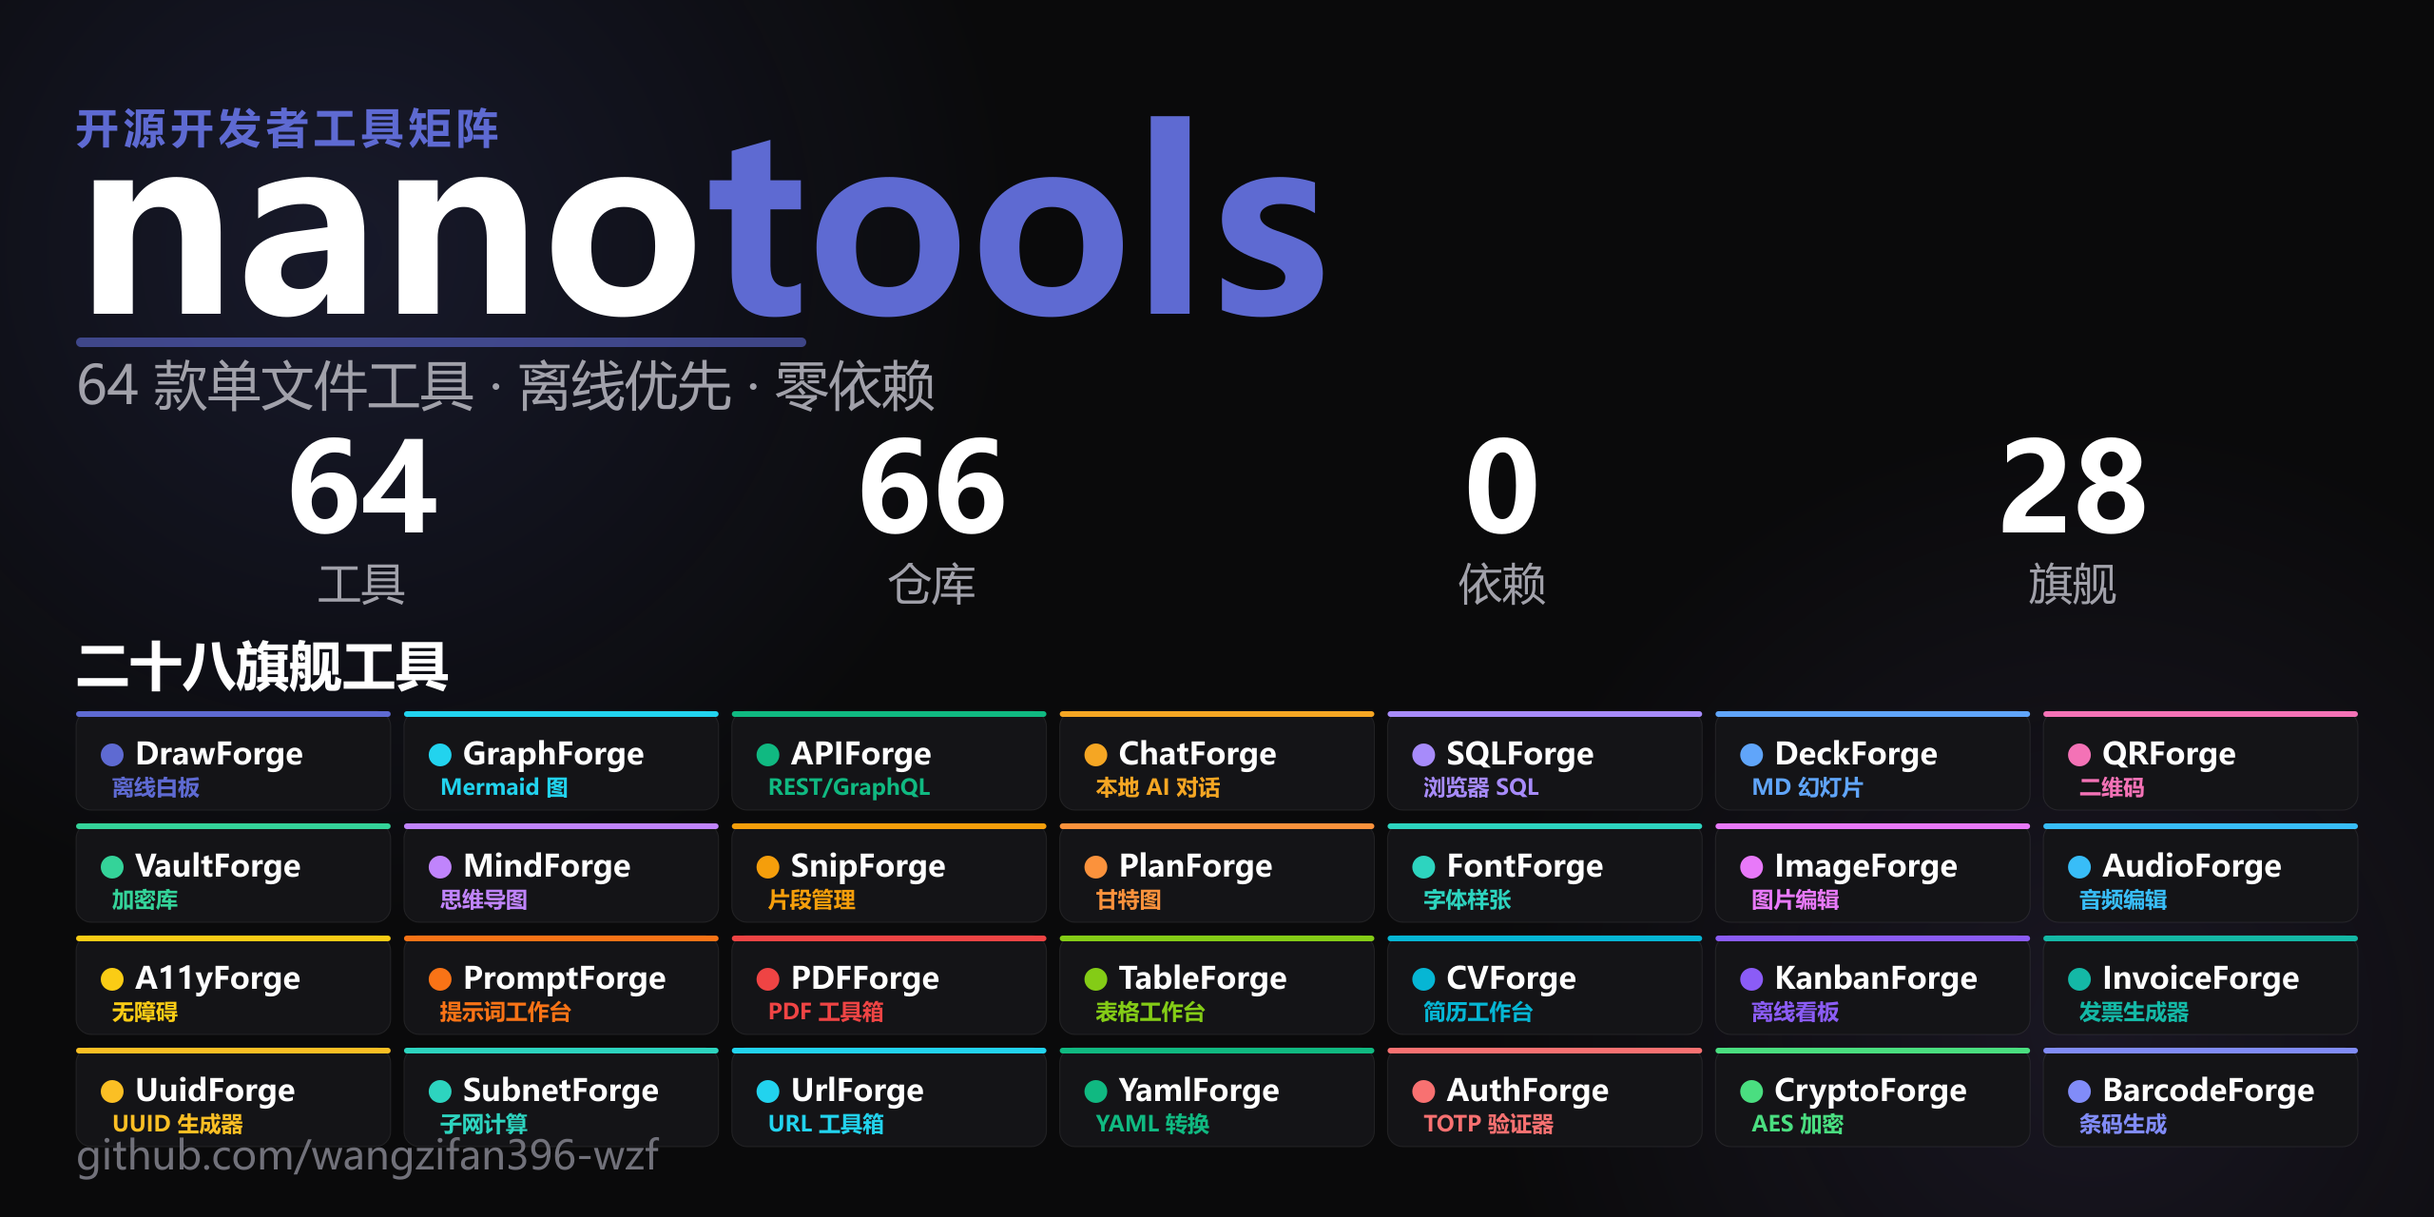
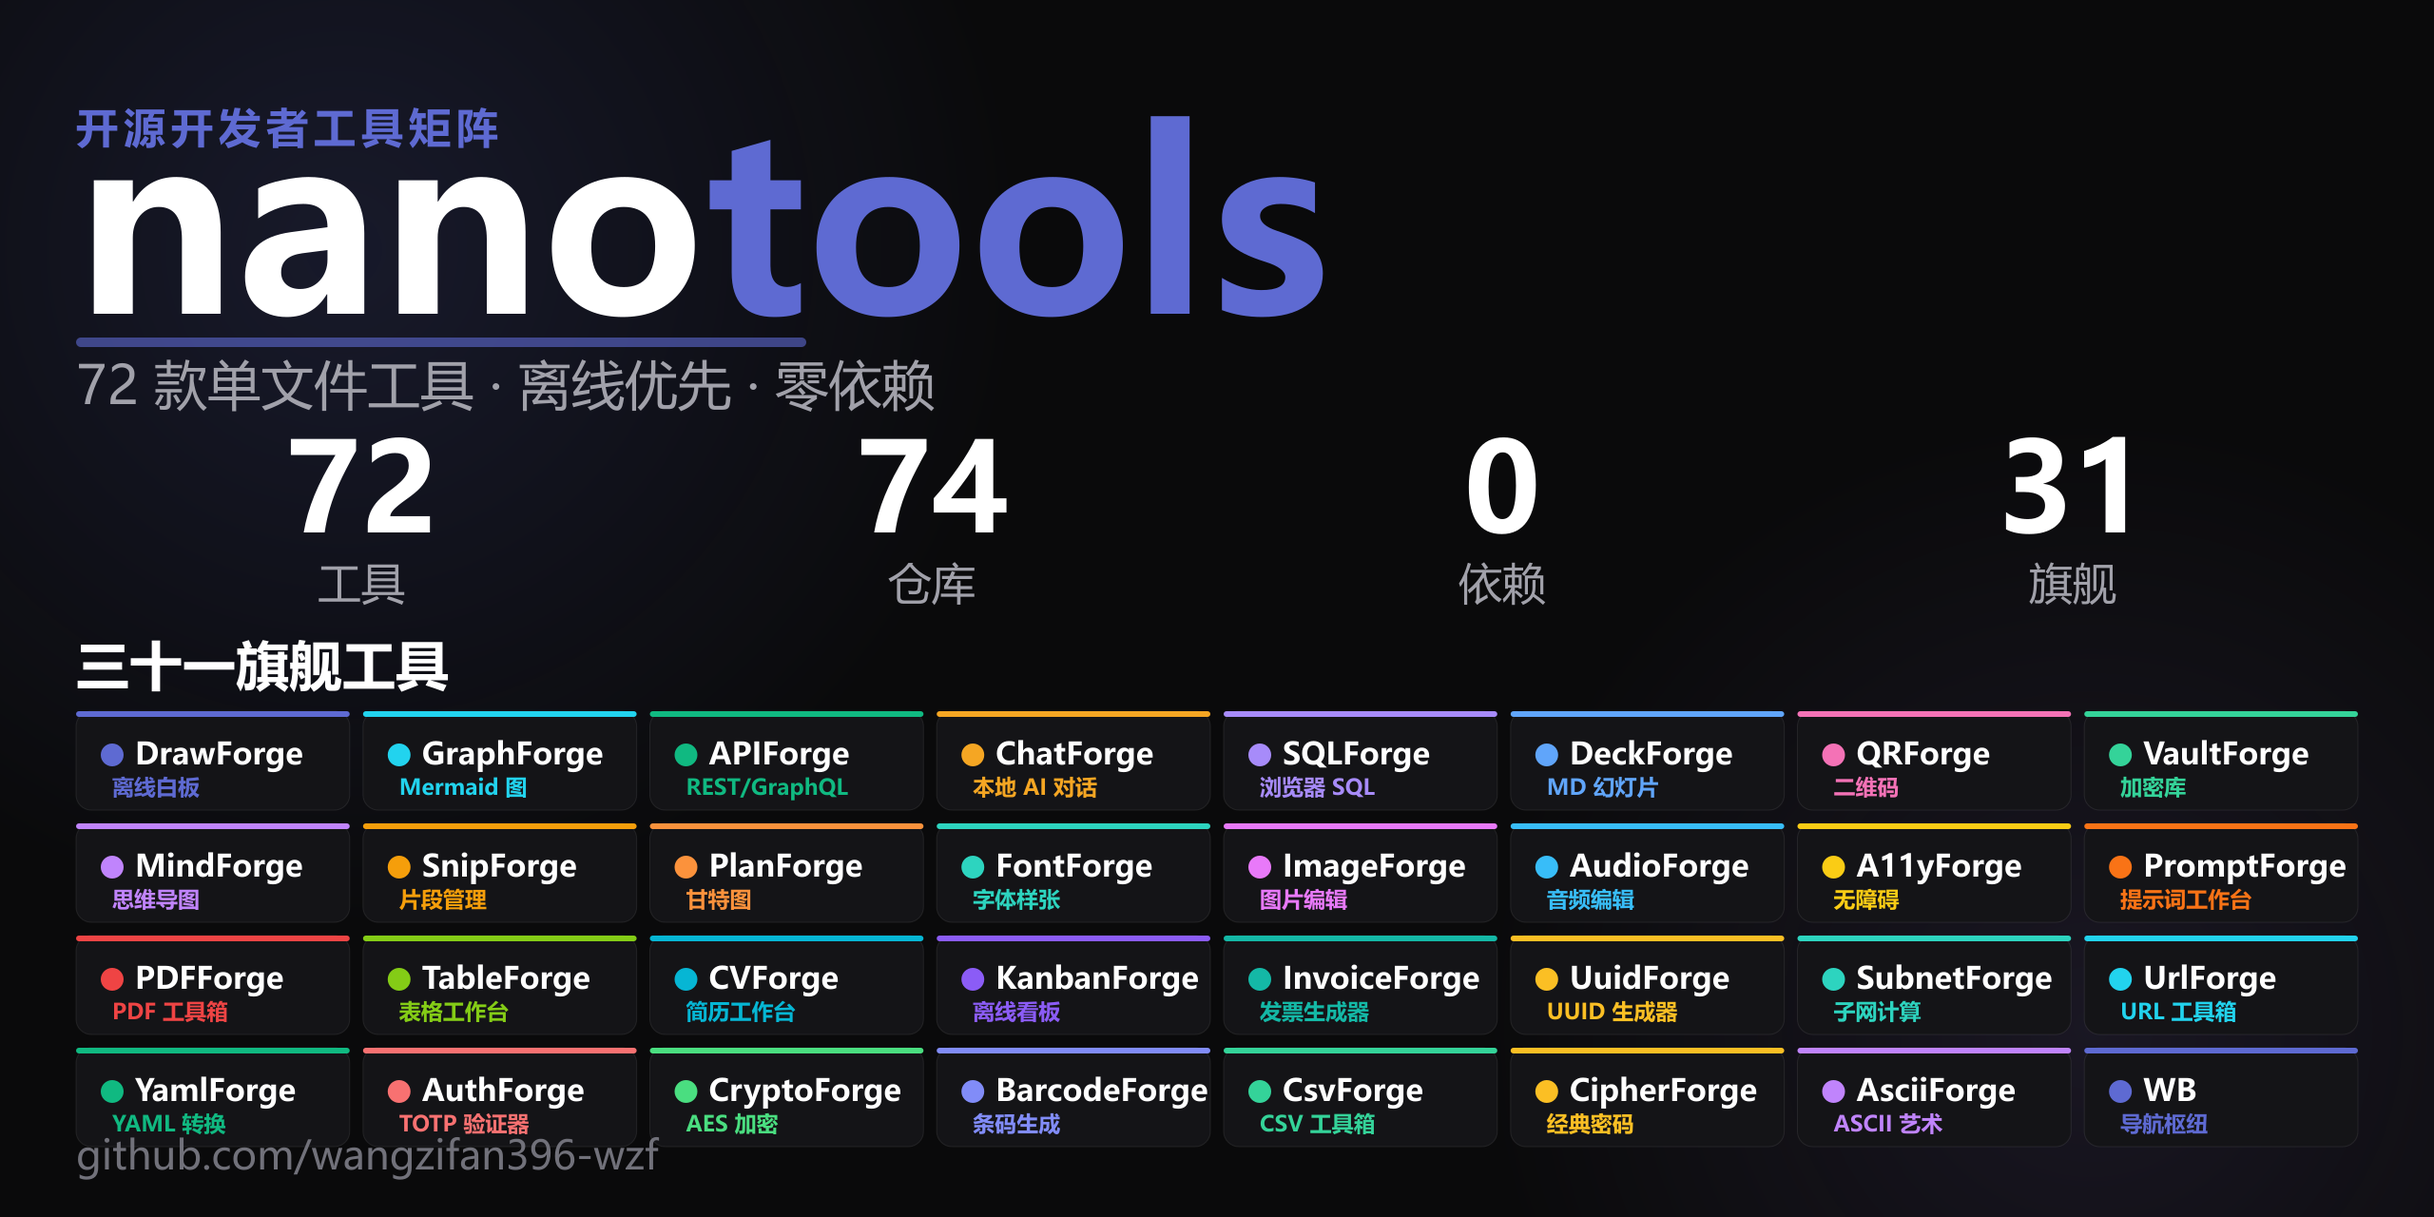
feat: add 8 tools (CsvForge/CipherForge/AsciiForge/AvatarForge/FaviconForge/XmlForge/HtmlForge/TimerForge), bump counts to 72 tools/74 repos/31 flagships, refresh og+social-preview v14

diff --git a/index.html b/index.html
@@ -5,9 +5,9 @@
 <meta charset="UTF-8">
 <meta name="viewport" content="width=device-width, initial-scale=1.0">
 <title data-i18n="meta_title">nano-tools · 单文件零依赖工具集</title>
-<meta name="description" data-i18n="meta_desc" content="一个标签页，收纳你全部的开发者工具。64 个单文件、零依赖、本地优先的开源工具，下载即用，数据永不离机。">
+<meta name="description" data-i18n="meta_desc" content="一个标签页，收纳你全部的开发者工具。72 个单文件、零依赖、本地优先的开源工具，下载即用，数据永不离机。">
 <meta property="og:title" data-i18n="og_title" content="nano-tools · 单文件零依赖工具集">
-<meta property="og:description" data-i18n="og_desc" content="64 个单文件、零依赖、本地优先的开发者工具，下载即用，数据永不离机。">
+<meta property="og:description" data-i18n="og_desc" content="72 个单文件、零依赖、本地优先的开发者工具，下载即用，数据永不离机。">
 <meta property="og:image" content="social-preview.png">
 <meta property="og:image:width" content="1280">
 <meta property="og:image:height" content="640">
@@ -278,7 +278,7 @@
     <div class="hero-left">
       <span class="eyebrow"><span class="dot"></span><span data-i18n="hero_eyebrow">开源 · 零依赖 · 单文件</span></span>
       <h1 class="title" data-i18n-html="hero_title">一个标签页，<br>收纳你<span class="hl">全部的开发者工具</span></h1>
-      <p class="subtitle" data-i18n="hero_subtitle">64 个单文件、离线优先的开源工具，覆盖编码、转换、可视化与 AI。下载即用，数据永远留在你的浏览器里。</p>
+      <p class="subtitle" data-i18n="hero_subtitle">72 个单文件、离线优先的开源工具，覆盖编码、转换、可视化与 AI。下载即用，数据永远留在你的浏览器里。</p>
       <div class="hero-cta">
         <a class="btn primary" href="#tools" data-i18n="hero_browse">浏览工具 ↓</a>
         <a class="btn" href="https://github.com/wangzifan396-wzf" target="_blank" rel="noopener" data-i18n="hero_github">在 GitHub 查看</a>
@@ -327,7 +327,7 @@
   <div class="wrap">
     <div class="sec-head reveal">
       <span class="label" data-i18n="tools_label">工具矩阵</span>
-      <h2 class="sec-title" data-i18n="tools_title">64 款精心打磨的开发者工具</h2>
+      <h2 class="sec-title" data-i18n="tools_title">72 款精心打磨的开发者工具</h2>
       <p class="sec-desc" data-i18n="tools_desc">搜索或按分类筛选，点击「在线试用」立即体验，或前往源码仓库查看实现。</p>
     </div>
     <div class="controls reveal">
@@ -385,7 +385,7 @@
 <div class="wrap">
   <div class="cta-band reveal" style="border-color:var(--acc);">
     <span class="pill ok" style="align-self:center;background:rgba(94,106,210,.16);color:#aab2f0;" data-i18n="wb_badge">★ 聚合工作台</span>
-    <h2 data-i18n="wb_title">一个标签页，收纳全部 64 款工具</h2>
+    <h2 data-i18n="wb_title">一个标签页，收纳全部 72 款工具</h2>
     <p data-i18n="wb_desc">nano-workbench：点选即在内嵌窗口运行、标签间即时切换，无需反复打开新页面。数据永不离机。</p>
     <div class="hero-cta">
       <a class="btn primary" href="https://wangzifan396-wzf.github.io/nano-workbench/" target="_blank" rel="noopener" data-i18n="wb_open">打开工作台 ↗</a>
@@ -397,7 +397,7 @@
 <div class="wrap">
   <div class="cta-band reveal">
     <h2 data-i18n="cta_title">把你下一个小工具，交给 nano-tools</h2>
-    <p data-i18n="cta_desc">66 个仓库、64 款工具，全部开源、零依赖、本地优先。</p>
+    <p data-i18n="cta_desc">74 个仓库、72 款工具，全部开源、零依赖、本地优先。</p>
     <div class="hero-cta">
       <a class="btn primary" href="#tools" data-i18n="cta_browse">开始浏览</a>
       <a class="btn" href="https://github.com/wangzifan396-wzf" target="_blank" rel="noopener">★ Star on GitHub</a>
@@ -425,16 +425,16 @@
   // 双语字典（中 / 英）。data-i18n 文本用 textContent；data-i18n-html 保留 <br>/<span> 结构；meta 改 content 属性。
   var I18N = {
     "meta_title":{zh:"nano-tools · 单文件零依赖工具集",en:"nano-tools · single-file, zero-dep tools"},
-    "meta_desc":{zh:"一个标签页，收纳你全部的开发者工具。64 个单文件、零依赖、本地优先的开源工具，下载即用，数据永不离机。",en:"One tab for all your dev tools. 64 single-file, zero-dep, local-first open-source tools. Download and use; data never leaves the browser."},
+    "meta_desc":{zh:"一个标签页，收纳你全部的开发者工具。72 个单文件、零依赖、本地优先的开源工具，下载即用，数据永不离机。",en:"One tab for all your dev tools. 72 single-file, zero-dep, local-first open-source tools. Download and use; data never leaves the browser."},
     "og_title":{zh:"nano-tools · 单文件零依赖工具集",en:"nano-tools · single-file, zero-dep tools"},
-    "og_desc":{zh:"64 个单文件、零依赖、本地优先的开发者工具，下载即用，数据永不离机。",en:"64 single-file, zero-dep, local-first dev tools. Download and use; data never leaves the browser."},
+    "og_desc":{zh:"72 个单文件、零依赖、本地优先的开发者工具，下载即用，数据永不离机。",en:"72 single-file, zero-dep, local-first dev tools. Download and use; data never leaves the browser."},
     "nav_features":{zh:"特性",en:"Features"},
     "nav_tools":{zh:"工具",en:"Tools"},
     "nav_stats":{zh:"数据",en:"Stats"},
     "nav_faq":{zh:"问答",en:"FAQ"},
     "hero_eyebrow":{zh:"开源 · 零依赖 · 单文件",en:"Open-source · Zero-dep · Single-file"},
     "hero_title":{zh:'一个标签页，<br>收纳你<span class="hl">全部的开发者工具</span>',en:'One tab, <br>for <span class="hl">all your dev tools</span>'},
-    "hero_subtitle":{zh:"64 个单文件、离线优先的开源工具，覆盖编码、转换、可视化与 AI。下载即用，数据永远留在你的浏览器里。",en:"64 single-file, offline-first open-source tools spanning encoding, conversion, visualization & AI. Download and use instantly; your data never leaves the browser."},
+    "hero_subtitle":{zh:"72 个单文件、离线优先的开源工具，覆盖编码、转换、可视化与 AI。下载即用，数据永远留在你的浏览器里。",en:"72 single-file, offline-first open-source tools spanning encoding, conversion, visualization & AI. Download and use instantly; your data never leaves the browser."},
     "hero_browse":{zh:"浏览工具 ↓",en:"Browse tools ↓"},
     "hero_github":{zh:"在 GitHub 查看",en:"View on GitHub"},
     "meta_repos":{zh:"开源仓库",en:"Open-source repos"},
@@ -450,16 +450,16 @@
     "step3_t":{zh:"单文件可携",en:"Portable single-file"},
     "step3_d":{zh:"每个工具只有一个 HTML 文件，零依赖、可随便复制分享，U 盘里也能跑。",en:"Each tool is one HTML file — zero dependencies, copy & share freely, runs from a USB stick."},
     "tools_label":{zh:"工具矩阵",en:"Tool matrix"},
-    "tools_title":{zh:"64 款精心打磨的开发者工具",en:"64 Hand-crafted Dev Tools"},
+    "tools_title":{zh:"72 款精心打磨的开发者工具",en:"72 Hand-crafted Dev Tools"},
     "tools_desc":{zh:"搜索或按分类筛选，点击「在线试用」立即体验，或前往源码仓库查看实现。",en:"Search or filter by category, hit “Live Demo” to try instantly, or visit the source repo."},
     "search_ph":{zh:"搜索工具… 试试 regex / json / 颜色 / 压缩 / 图表",en:"Search tools… try regex / json / color / compress / chart"},
     "btn_demo":{zh:"在线试用",en:"Live Demo"},
     "btn_src":{zh:"源码",en:"Source"},
     "no_result":{zh:"没有匹配的工具，换个关键词试试 🔍",en:"No matching tools — try another keyword 🔍"},
     "cta_title":{zh:"把你下一个小工具，交给 nano-tools",en:"Your next tiny tool, from nano-tools"},
-    "cta_desc":{zh:"66 个仓库、64 款工具，全部开源、零依赖、本地优先。",en:"66 repos, 64 tools. All open-source, zero-dep, local-first."},
+    "cta_desc":{zh:"74 个仓库、72 款工具，全部开源、零依赖、本地优先。",en:"74 repos, 72 tools. All open-source, zero-dep, local-first."},
     "wb_badge":{zh:"★ 聚合工作台",en:"★ Unified Workbench"},
-    "wb_title":{zh:"一个标签页，收纳全部 64 款工具",en:"All 64 tools in one tab"},
+    "wb_title":{zh:"一个标签页，收纳全部 72 款工具",en:"All 72 tools in one tab"},
     "wb_desc":{zh:"nano-workbench：点选即在内嵌窗口运行、标签间即时切换，无需反复打开新页面。数据永不离机。",en:"nano-workbench: pick a tool and run it in an embedded pane, switch tabs instantly — no more reopening pages. Data never leaves your machine."},
     "wb_open":{zh:"打开工作台 ↗",en:"Open Workbench ↗"},
     "wb_src":{zh:"查看源码",en:"View Source"},
@@ -679,7 +679,31 @@
      tags:["exif","metadata","privacy","jpeg"]},
     {id:"LoremForge", name:"LoremForge", icon:"lorem", cat:"文本", badge:"新",
      desc:"离线 Lorem ipsum 占位文本生成器：可复现种子、段落/句数可调、可选 Lorem 开头与纯词数模式。",
-     tags:["lorem","placeholder","text","generator"]}
+     tags:["lorem","placeholder","text","generator"]},
+    {id:"CsvForge", name:"CsvForge", icon:"csv", cat:"数据工具", badge:"旗舰",
+     desc:"离线 CSV 工具箱：解析 / 转 JSON / 转置 / 概览，零上传。",
+     tags:["csv","json","convert","data"]},
+    {id:"CipherForge", name:"CipherForge", icon:"cipher", cat:"安全", badge:"旗舰",
+     desc:"离线经典密码：凯撒 / 维吉尼亚 / ROT13 / Atbash，数据不出本机。",
+     tags:["cipher","caesar","vigenere","crypto"]},
+    {id:"AsciiForge", name:"AsciiForge", icon:"ascii", cat:"文本", badge:"旗舰",
+     desc:"离线 ASCII 艺术：A-Z 0-9 点阵横幅 / 文本框 / 黑客语转换。",
+     tags:["ascii","banner","art","text"]},
+    {id:"AvatarForge", name:"AvatarForge", icon:"avatar", cat:"设计创意", badge:"新",
+     desc:"离线身份图标：种子文本生成确定性 identicon（SVG），零上传。",
+     tags:["avatar","identicon","svg","generator"]},
+    {id:"FaviconForge", name:"FaviconForge", icon:"favicon", cat:"设计创意", badge:"新",
+     desc:"离线 Favicon 生成：文字 / Emoji → SVG，自定义配色。",
+     tags:["favicon","icon","svg","generator"]},
+    {id:"XmlForge", name:"XmlForge", icon:"xml", cat:"数据工具", badge:"新",
+     desc:"离线 XML 工具：格式化缩进 / 结构校验（标签匹配闭合）。",
+     tags:["xml","format","validate","data"]},
+    {id:"HtmlForge", name:"HtmlForge", icon:"html", cat:"开发", badge:"新",
+     desc:"离线 HTML 工具：压缩 / 格式化 / 转义反转义，零依赖。",
+     tags:["html","minify","format","web"]},
+    {id:"TimerForge", name:"TimerForge", icon:"timer", cat:"实用计算", badge:"新",
+     desc:"离线秒表 / 倒计时：精确到 0.1 秒，支持秒或 mm:ss 输入。",
+     tags:["timer","stopwatch","countdown","utility"]}
   ];
 
   // 英文文案（按 id 索引；门户双语切换用）
@@ -748,7 +772,15 @@
     LicenseForge:{desc:"Offline open-source license generator — MIT/BSD-3-Clause/ISC/Apache-2.0/Unlicense full text, fill year & copyright holder.", cat:"Crypto"},
     GitignoreForge:{desc:"Offline .gitignore template combiner — 21 language/framework/editor templates, multi-select merge with headers, one-click download.", cat:"Crypto"},
     ExifForge:{desc:"Offline image EXIF viewer & cleaner — parse JPEG APP1 / TIFF IFD, strip capture privacy metadata in one click.", cat:"Design"},
-    LoremForge:{desc:"Offline Lorem ipsum placeholder generator — reproducible seed, adjustable paragraphs/sentences, optional Lorem start & word-count mode.", cat:"Text"}
+    LoremForge:{desc:"Offline Lorem ipsum placeholder generator — reproducible seed, adjustable paragraphs/sentences, optional Lorem start & word-count mode.", cat:"Text"},
+    CsvForge:{desc:"Offline CSV toolbox — parse / convert to JSON / transpose / summarize, zero upload.", cat:"Data"},
+    CipherForge:{desc:"Offline classic ciphers — Caesar / Vigenère / ROT13 / Atbash. Data never leaves your machine.", cat:"Crypto"},
+    AsciiForge:{desc:"Offline ASCII art — A-Z 0-9 dot-matrix banner / text box / leet speak conversion.", cat:"Text"},
+    AvatarForge:{desc:"Offline identicon generator — deterministic SVG from any seed text, zero upload.", cat:"Design"},
+    FaviconForge:{desc:"Offline favicon generator — text / emoji to SVG, custom colors.", cat:"Design"},
+    XmlForge:{desc:"Offline XML tool — pretty-print indentation / structural validation (tag matching).", cat:"Data"},
+    HtmlForge:{desc:"Offline HTML tool — minify / format / escape & unescape, zero dependencies.", cat:"Dev"},
+    TimerForge:{desc:"Offline stopwatch / countdown — 0.1s precision, accepts seconds or mm:ss input.", cat:"Utility"}
   };
   // 中文分类 -> 英文分类 映射
   var CAT_EN = {"全部":"All"};
@@ -819,7 +851,15 @@
     license:'<path d="M14 2H6a2 2 0 0 0-2 2v16a2 2 0 0 0 2 2h12a2 2 0 0 0 2-2V8z"/><path d="M14 2v6h6"/><circle cx="12" cy="13" r="2.2"/><path d="M10.6 14.6 9 19l3-1.4L15 19l-1.6-4.4"/>',
     gitignore:'<circle cx="12" cy="12" r="9"/><path d="M5.6 5.6 18.4 18.4"/><path d="M8.5 12h7"/>',
     exif:'<rect x="3" y="5" width="18" height="14" rx="2"/><circle cx="9" cy="11" r="2.2"/><path d="M3 17l5-4 3 2 4-3 6 5"/>',
-    lorem:'<path d="M4 6h16M4 10h16M4 14h11M4 18h7"/>'
+    lorem:'<path d="M4 6h16M4 10h16M4 14h11M4 18h7"/>',
+    csv:'<rect x="4" y="4" width="16" height="16" rx="2"/><path d="M4 10h16M4 15h16M10 4v16M15 4v16"/>',
+    cipher:'<rect x="5" y="11" width="14" height="9" rx="2"/><path d="M8 11V8a4 4 0 0 1 8 0v3"/>',
+    ascii:'<path d="M8 18 12 6l4 12M9.2 14h5.6"/>',
+    avatar:'<circle cx="12" cy="9" r="3.5"/><path d="M5 20a7 7 0 0 1 14 0"/>',
+    favicon:'<rect x="4" y="4" width="16" height="16" rx="4"/><circle cx="12" cy="12" r="3"/>',
+    xml:'<path d="M7 5l-5 7 5 7M17 5l5 7-5 7"/>',
+    html:'<path d="M4 6l4 12 4-12M14 18h6"/>',
+    timer:'<circle cx="12" cy="13" r="7"/><path d="M12 13V9M9 3h6"/>'
   };
   function iconSvg(k){ return '<svg viewBox="0 0 24 24" fill="none" stroke="currentColor" stroke-width="1.8" stroke-linecap="round" stroke-linejoin="round">'+(ICONS[k]||"")+'</svg>'; }
 
@@ -829,7 +869,7 @@
   var $ = function(s,el){return (el||document).querySelector(s);};
   var state = {q:"", cat:"全部", flag:false, fav:false};
   var LANG = (function(){ try{return localStorage.getItem("nano-lang")||"zh";}catch(e){return "zh";} })();
-  var FLAG_IDS = {"DrawForge":1,"GraphForge":1,"APIForge":1,"ChatForge":1,"SQLForge":1,"DeckForge":1,"QRForge":1,"VaultForge":1,"MindForge":1,"SnipForge":1,"PlanForge":1,"FontForge":1,"ImageForge":1,"AudioForge":1,"A11yForge":1,"PromptForge":1,"PDFForge":1,"TableForge":1,"CVForge":1,"KanbanForge":1,"InvoiceForge":1,"UuidForge":1,"SubnetForge":1,"UrlForge":1,"YamlForge":1,"AuthForge":1,"CryptoForge":1,"BarcodeForge":1};
+  var FLAG_IDS = {"DrawForge":1,"GraphForge":1,"APIForge":1,"ChatForge":1,"SQLForge":1,"DeckForge":1,"QRForge":1,"VaultForge":1,"MindForge":1,"SnipForge":1,"PlanForge":1,"FontForge":1,"ImageForge":1,"AudioForge":1,"A11yForge":1,"PromptForge":1,"PDFForge":1,"TableForge":1,"CVForge":1,"KanbanForge":1,"InvoiceForge":1,"UuidForge":1,"SubnetForge":1,"UrlForge":1,"YamlForge":1,"AuthForge":1,"CryptoForge":1,"BarcodeForge":1,"CsvForge":1,"CipherForge":1,"AsciiForge":1};
   var FAV_KEY = "nano-favs";
   function getFavs(){ try{return JSON.parse(localStorage.getItem(FAV_KEY)||"[]");}catch(e){return [];} }
   function setFav(id,on){ var s=getFavs(); var i=s.indexOf(id); if(on&&i<0)s.push(id); if(!on&&i>=0)s.splice(i,1); try{localStorage.setItem(FAV_KEY,JSON.stringify(s));}catch(e){} }
